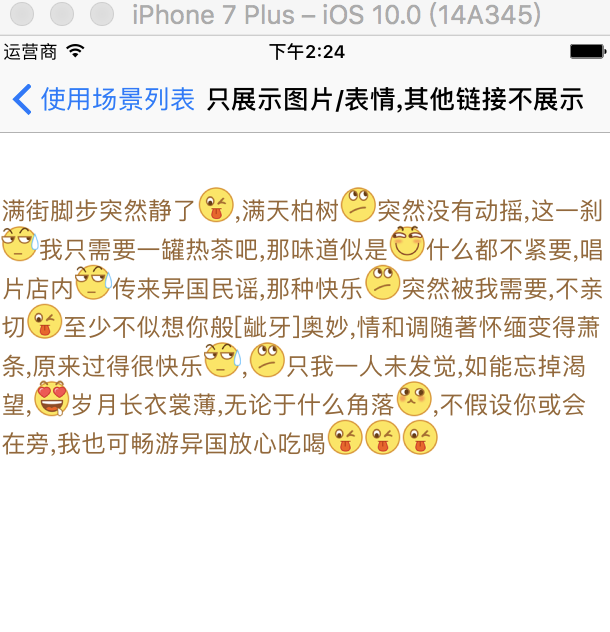
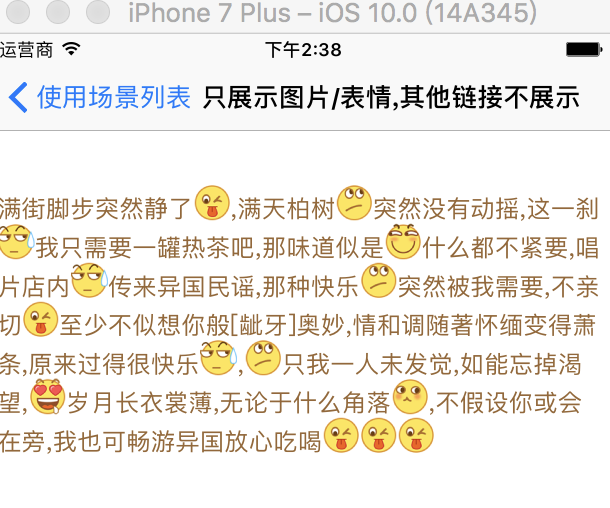
add

diff --git a/README.md b/README.md
@@ -9,7 +9,17 @@
 
 1. 静态图文文字混排 </p>
 ```
-123
+    MYCoreTextLabel  * coreTextLabel = [[MYCoreTextLabel alloc]init];
+    //创建相关属性的模型
+    MYAttributeModel *model = [[MYAttributeModel alloc]init];
+    model.imageSize         = CGSizeMake(25, 25);  // 设置图片尺寸 , 默认和字体一样
+    model.textFont          = [UIFont systemFontOfSize:16.f]; //设置普通文本大小 , 默认14.f
+    model.textColor         = [UIColor brownColor]; //设置普通文本字体颜色 , 默认黑色
+    coreTextLabel.attribute = model;  //赋值模型
+    [coreTextLabel text:@"满街脚步突然静了[调皮],满天柏树[白眼]突然没有动摇,这一刹[擦汗]我只需要一罐热茶吧,那味道似是[滑稽]什么都不紧要,唱片店内[擦汗]传来异国民谣,那种快乐[白眼]突然被我需要,不亲切[调皮]至少不似想你般[龇牙]奥妙,情和调随著怀缅变得萧条,原来过得很快乐[擦汗],[白眼]只我一人未发觉,如能忘掉渴望,[花心]岁月长衣裳薄,无论于什么角落[噘嘴],不假设你或会在旁,我也可畅游异国放心吃喝[调皮][调皮][调皮]" customLinks:nil];
+    CGSize size = [coreTextLabel sizeThatFits:CGSizeMake([UIScreen mainScreen].bounds.size.width, [UIScreen mainScreen].bounds.size.height)];
+    self.coreTextLabel.frame = CGRectMake(0, 100, size.width, size.height);
+    [self.view addSubview:coreTextLabel];
 ```
 </p>
  ![image](https://github.com/coderMyy/MYCoreTextLabel/blob/master/examplePic/image.png)
